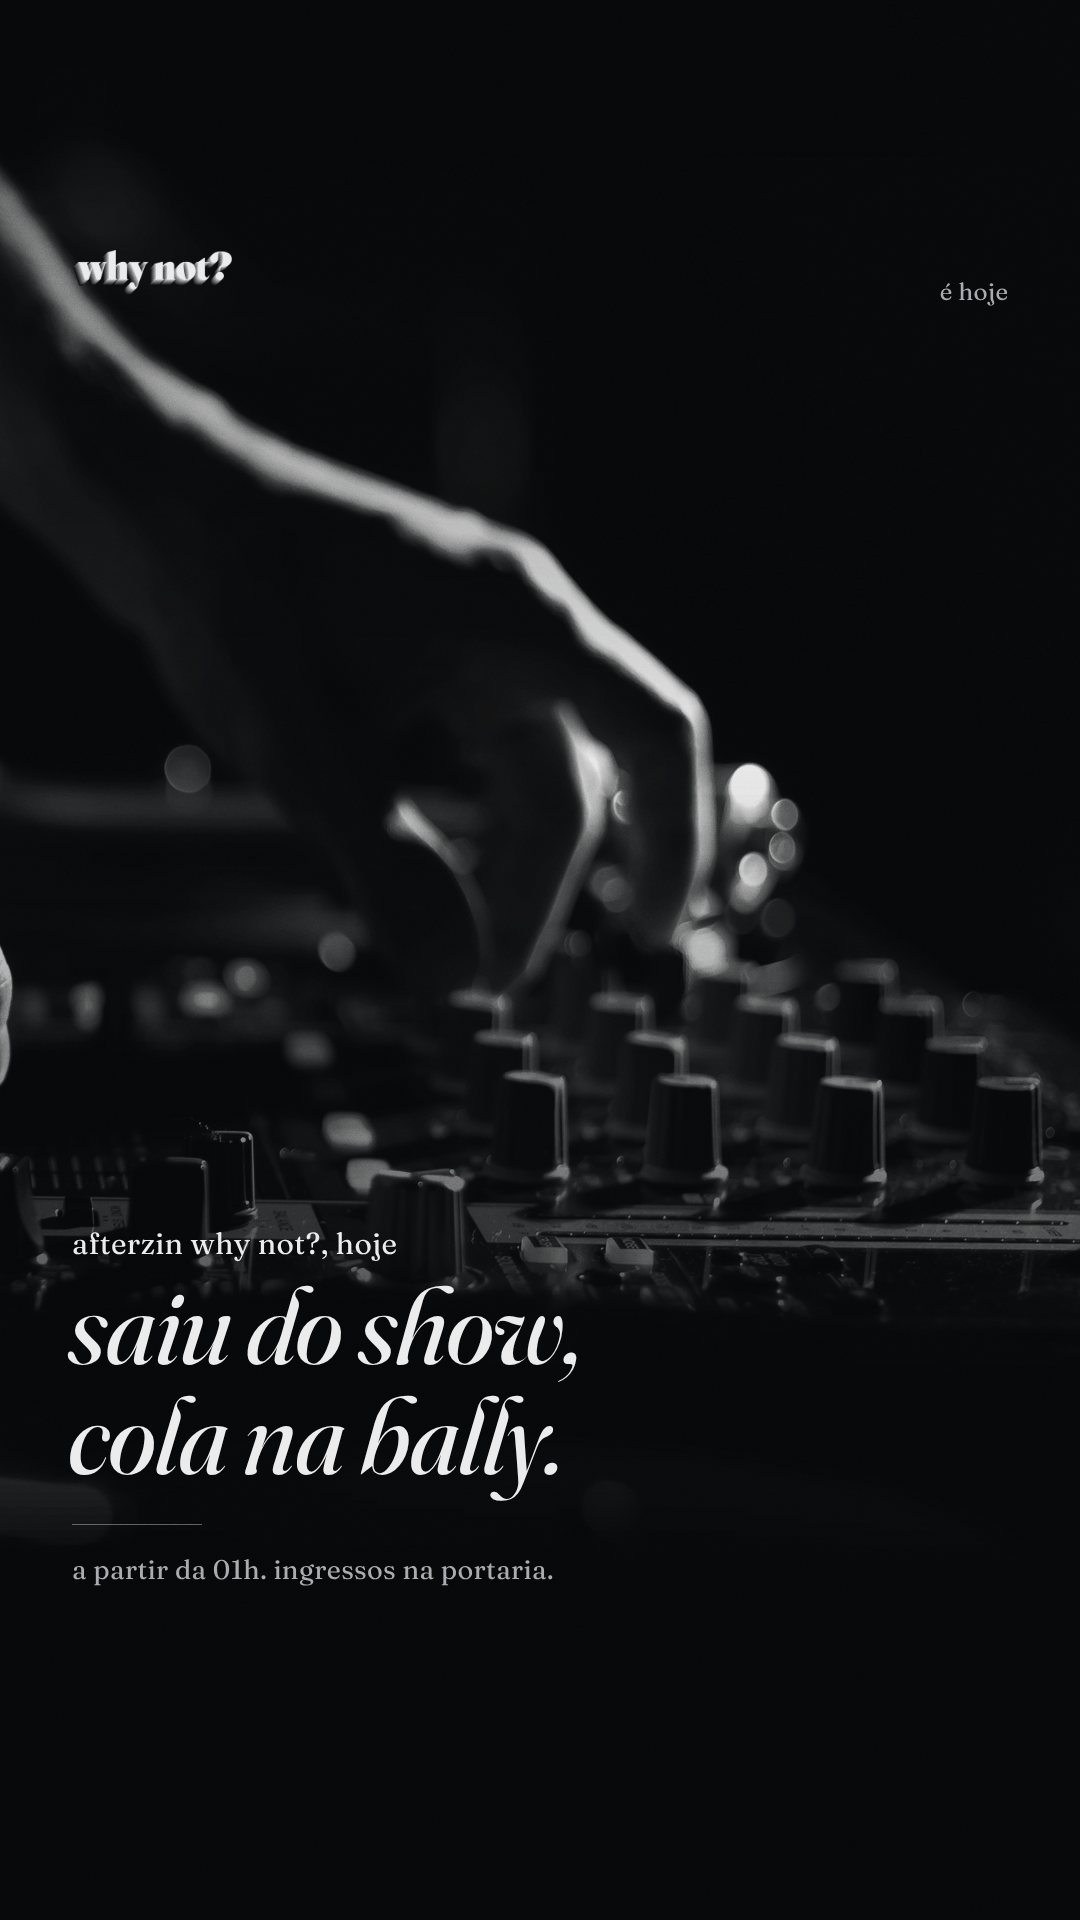
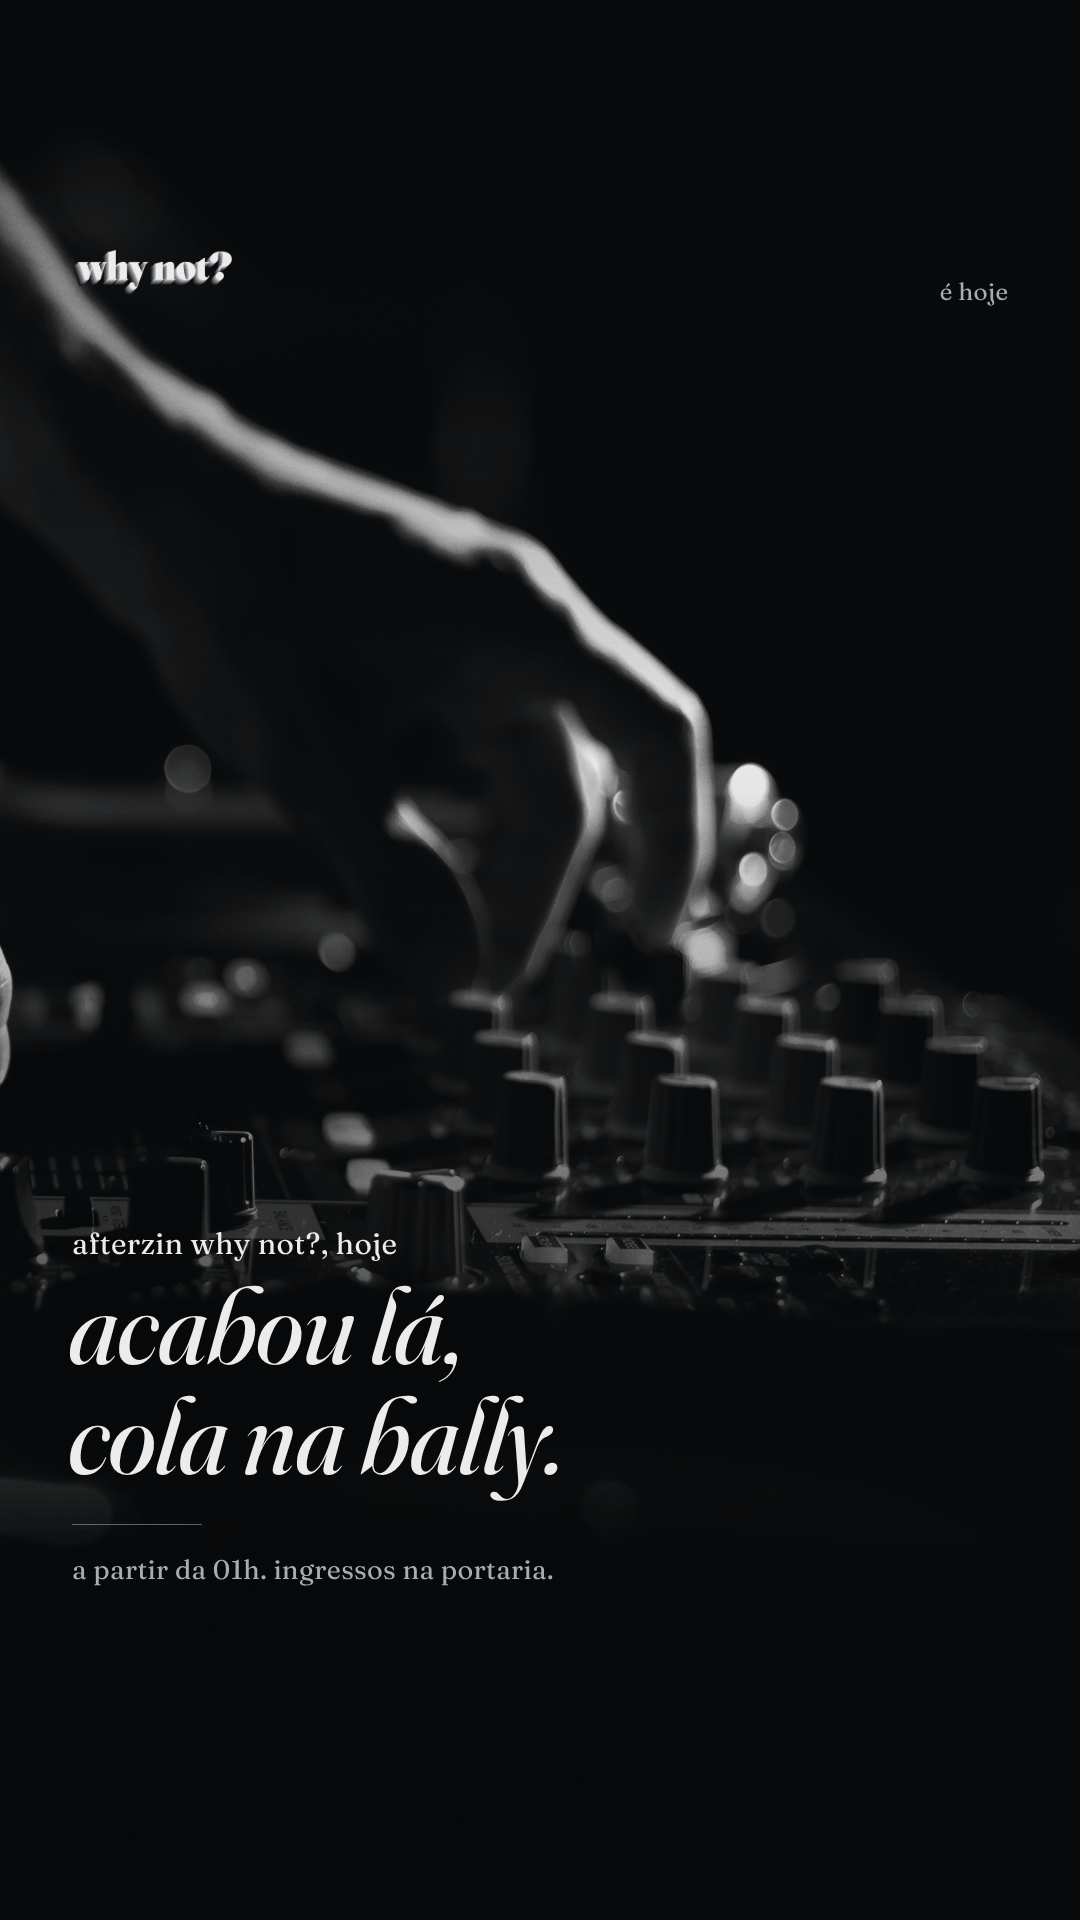
afterzin: story é hoje sem 'show' (acabou lá, cola na bally)
Claude-Session: https://claude.ai/code/session_01EB6L4Lkud6PcZEDw1BW6Na

Changed region(s): [[0.0611, 0.6562, 0.55, 0.7188]]

diff --git a/identidade/ferramentas/minimal_afterzin.py b/identidade/ferramentas/minimal_afterzin.py
@@ -95,7 +95,7 @@ PECAS = [  # nome, W, H, foto, foco, zoom, brilho, base_em, html
  ('s4_story_line', 1080, 1920, '175742652', (.5, .5), 1.0, 1.05, .30,
   topo(1920) + grade(800, 74, 29, 98, ['sexta pra sábado, 21.11, na Bally Club, até as 07h.', 'ingressos no site da Bally ou na portaria.'])),
  ('s3_story_e-hoje', 1080, 1920, '587737046', (.72, .5), 1.0, 1.0, .40,
-  topo(1920, 'é hoje') + bloco(1490, 108, 'afterzin why not?, hoje', 'saiu do show,<br>cola na bally.', ['a partir da 01h. ingressos na portaria.'], 21)),
+  topo(1920, 'é hoje') + bloco(1490, 108, 'afterzin why not?, hoje', 'acabou lá,<br>cola na bally.', ['a partir da 01h. ingressos na portaria.'], 21)),
 ]
 with sync_playwright() as p:
     br = p.chromium.launch()
